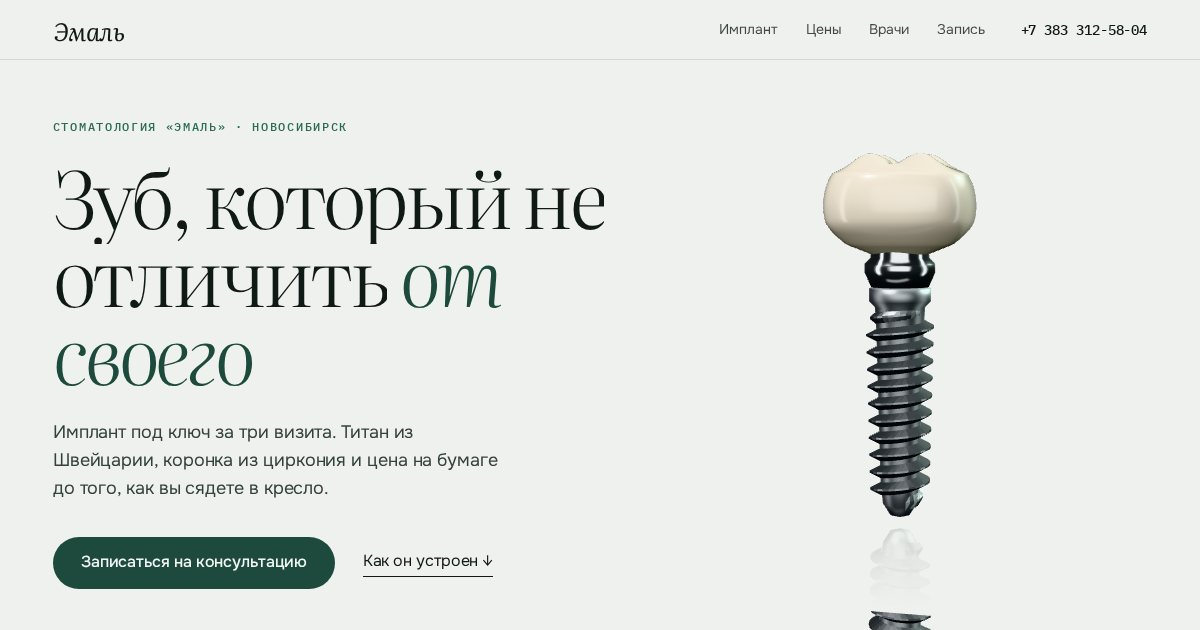
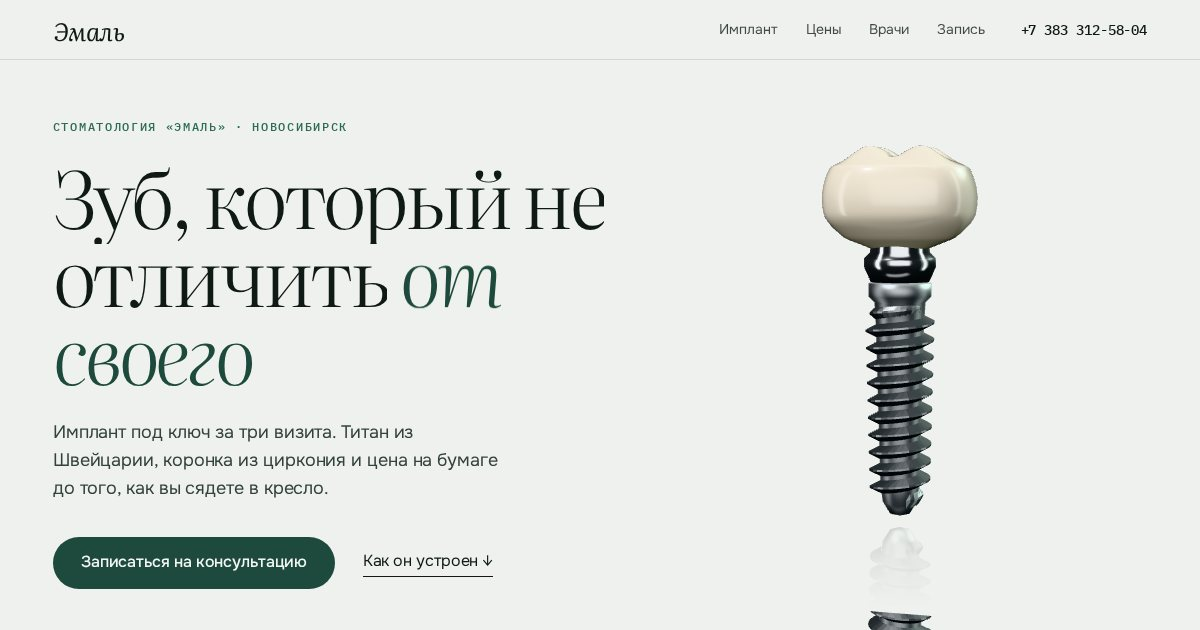
Эмаль: на планшете коронка в сцене «Цвет» не ложится на текст

Changed region(s): [[0.6783, 0.3317, 0.8325, 0.8143], [0.6783, 0.2413, 0.8017, 0.3016], [0.8017, 0.2714, 0.8325, 0.3016]]

diff --git a/emal-klinika/proba.html b/emal-klinika/proba.html
@@ -1,0 +1,26 @@
+<!doctype html>
+<html lang="ru"><head>
+<meta name="robots" content="noindex, nofollow, noarchive"><meta charset="utf-8"><meta name="viewport" content="width=device-width, initial-scale=1">
+<style>html,body{margin:0;height:100%;background:#eef1ed}canvas{position:fixed;inset:0;width:100%;height:100%}</style>
+<script src="assets/lib/gsap.min.js"></script>
+<script type="importmap">{"imports":{"three":"./assets/lib/three.module.min.js"}}</script>
+<meta property="og:type" content="website">
+<meta property="og:url" content="https://design.autopasha.ru/emal-klinika/proba.html">
+<meta property="og:image" content="https://design.autopasha.ru/emal-klinika/og.jpg">
+<meta property="og:image:width" content="1200">
+<meta property="og:image:height" content="630">
+<meta name="twitter:card" content="summary_large_image">
+<meta name="twitter:image" content="https://design.autopasha.ru/emal-klinika/og.jpg">
+</head><body><canvas id="c"></canvas>
+<script type="module">
+import { createImplant } from './assets/js/implant.js';
+const q = new URLSearchParams(location.search);
+const im = createImplant(document.getElementById('c'));
+const st = im.st;
+st.explode = +(q.get('e') || 0); st.az = +(q.get('az') || 20); st.el = +(q.get('el') || 8);
+st.bg = q.get('bg') || '#eef1ed'; st.focus = q.get('f') || null; st.only = q.get('only') || null;
+st.rect = (q.get('r') || '0.2,0.06,0.8,0.94').split(',').map(Number);
+for (let i = 0; i < 40; i++) im.render();
+document.body.dataset.ok = 1;
+</script><script src="/ap/badge.js" defer data-ap="emal-klinika"></script>
+</body></html>

diff --git a/emal-klinika/assets/js/main.js b/emal-klinika/assets/js/main.js
@@ -195,6 +195,7 @@ const PARTS = ['krona', 'vint', 'abat', 'implant'];
 const layers = $$('.layers li'), razborEl = $('.razbor');
 const leader = $('.leader'), lLine = $('line', leader), lDots = $$('circle', leader);
 let spinT = 0;
+const otEdge = $$('.ot-text .h2, .ot-lead, .sws, .ot-name'), otRange = document.createRange();
 
 const SC = {
   hero(p, st) {
@@ -238,7 +239,11 @@ const SC = {
       const a = ($('.ot-lead').getBoundingClientRect().bottom - stg) / vh() + 0.03;
       const b = ($('.sws').getBoundingClientRect().top - stg) / vh() - 0.03;
       st.rect = [0.14, a, 0.86, Math.max(a + 0.12, b)];
-    } else st.rect = [0.5, 0.16, 0.94, 0.86];
+    } else {
+      // на планшете колонка текста шире половины экрана: коронка встаёт правее самой длинной строки
+      const edge = Math.max(...otEdge.map(el => { otRange.selectNodeContents(el); return otRange.getBoundingClientRect().right; })) + 24;
+      st.rect = [Math.max(0.5, edge / innerWidth), 0.16, 0.94, 0.86];
+    }
     const ids = ['B1', 'A1', 'A2', 'A3', 'D2', 'C2'];
     const id = ids[Math.min(5, Math.floor(p * 6))];
     if (!userChose && id !== shownShade) showShade(id);

diff --git a/emal-klinika/assets/css/site.css b/emal-klinika/assets/css/site.css
@@ -289,6 +289,7 @@ body.go .hero .hero-text > :nth-child(5) { transition-delay: .65s; }
   .track::before, .track::after { display: none; }
   .zapis-in { grid-template-columns: 1fr; gap: 50px; }
   .ticket { position: static; max-width: 520px; }
+  .ot-text .h2, .ot-lead, .ot-name { max-width: min(470px, 44vw); }
 }
 
 /* ---------- телефон и планшет стоя: одна колонка, предмет под текстом ---------- */

diff --git a/emal-klinika/OBRAZCY.md b/emal-klinika/OBRAZCY.md
@@ -1,0 +1,32 @@
+# Эмаль: откуда взяты решения
+
+Витрина стоматологии, 13.10.2026. Павел про прошлые версии: «тут всё хуйня,
+сделай новые дизайны, используй 21st и mobbin». Ниже: что смотрел и что взял.
+Два продукта на приём = прецедент, один = пример.
+
+## Mobbin
+
+| Что на странице | Образец | Что взял |
+|---|---|---|
+| Первый экран: предмет крупно, фраза слева | Oryzo https://mobbin.com/sites/sections/9d67f8ac-8069-4a4b-999a-8ae18e7debf0 , Vizcom https://mobbin.com/sites/sections/5a194a1a-1add-434f-b901-b832b3c4ba78 | Один предмет на чистом фоне со студийным светом, отражение в полу как у наушников Vizcom |
+| Тон клиники без голубизны | Ease https://mobbin.com/sites/sections/6695790f-7142-4e99-86a9-2632963b795d , Biograph https://mobbin.com/sites/sections/20c4600f-d3e9-49b5-afad-b94dcb8fd0e9 | Антиква светлого веса, шалфей и бутылочный зелёный, фото кабинета во весь экран |
+| Разбор по деталям | Atlas https://mobbin.com/sites/sections/f4bb0189-fdb7-4075-a704-8f2f7b91f926 , T1 Energy https://mobbin.com/sites/sections/d768b5c8-b3a1-49c6-aff9-df1e13e4a440 , Rains https://mobbin.com/sites/sections/0c9ca7d4-3523-44f2-93cf-ee3137acc9d7 | Список слоёв с номерами рядом с предметом (T1), активный раскрыт; линия-выноска от детали к строке (Rains); разбор по оси на тёмном (Atlas) |
+| Цены | Waka Waka https://mobbin.com/sites/sections/fe089d5d-5adb-4849-a282-ae46d8fd7eac , Lemon Squeezy https://mobbin.com/sites/sections/6c6f07e4-2fa5-4650-9168-b1e528f13058 | Указатель как в каталоге: номер, название, что входит, цена моноширинным справа |
+| Этапы | Craft Agency https://mobbin.com/sites/sections/698886b8-377c-40e9-97e1-767a59eb9f28 , Sequence https://mobbin.com/sites/sections/27bf1023-ba04-4af0-ae50-5fad11815613 | Шаги по горизонтали с точками на линии, линия заполняется по прокрутке |
+| Запись | Calendly https://mobbin.com/screens/57876292-340c-408a-9563-fe0ab9f5dcbd , Fresha https://mobbin.com/screens/166ff431-9ecd-4c10-8c71-05677027f941 , Selfridges https://mobbin.com/screens/6a125d3d-8205-48df-b47b-73405156d956 | Полоса дней, сетка слотов, рядом карточка «ваш визит», которая собирается по выбору |
+
+## 21st.dev
+
+| Компонент | id | Что взял |
+|---|---|---|
+| Text Reveal (Mask) | 19257 | Слова заголовков поднимаются из-под маски с шагом 55 мс, кривая expo-out |
+| Spotlight | 35180 | Свет за курсором и подсветка края у плиток и строк цен (маска content-box / exclude) |
+| Hairline Exploded | 36593 | Курсор рядом с предметом разводит детали, уходит — собираются |
+| Booking Slot Calendar | 34576 | Неделя полосой, слоты сеткой, занятые зачёркнуты |
+
+## Своё
+
+Имплант, винт, абатмент и коронка собраны кодом (three.js): резьба по спирали,
+студийный свет из софтбоксов как у «Оси», оттенок коронки по шкале VITA меняется
+волной сверху вниз, как порода у «Кромки». Фото кабинета, томографа и врачей
+нарисованы помощником под палитру страницы.
